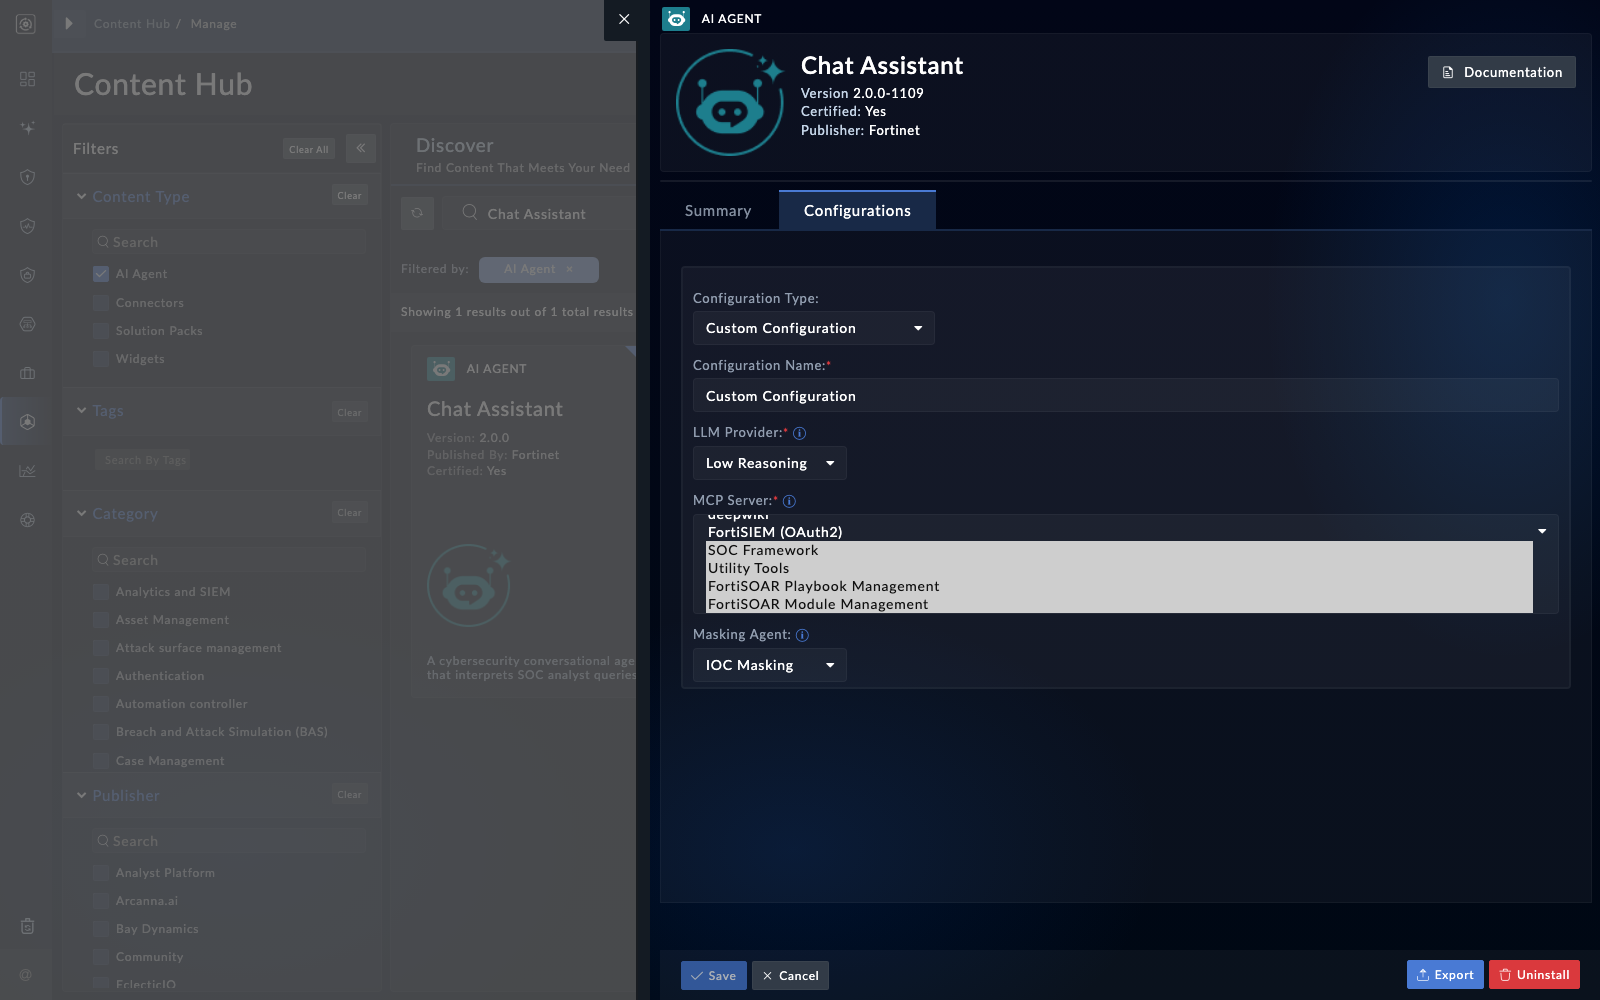
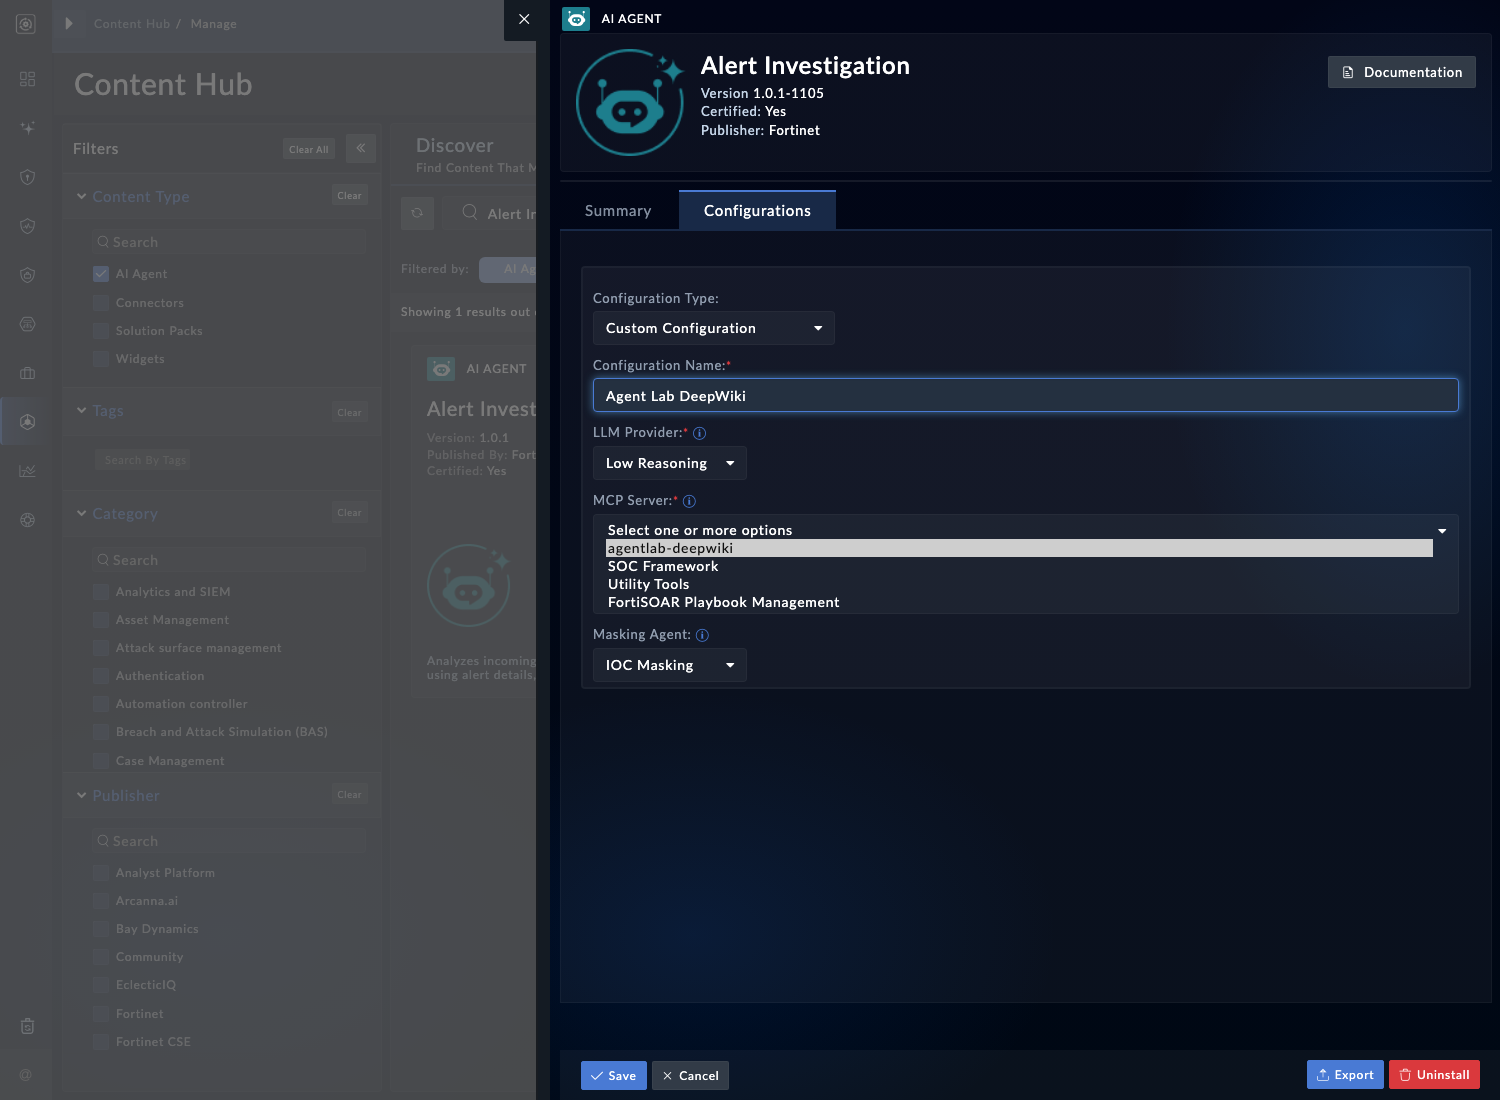
ch05: drive the agent config form by its real <select> controls
fsa05-04 grant step was unverified and clicked 'Custom Configuration' as text,
but it is a <select> option (hidden until the select opens). Select it and the
MCP Server, LLM Provider and Masking Agent through their #csForm-* selects, fill
the Configuration Name, and assert the lab server is offered before picking it.
Refresh the servers-page and grant-config captures.

diff --git a/docubot/05-register-mcp-servers/chapter.spec.ts b/docubot/05-register-mcp-servers/chapter.spec.ts
@@ -154,8 +154,9 @@ test('chapter 5 - register MCP servers', async ({ gui, capture }) => {
 
     if (shouldRunStep('fsa05-04-grant-allowlist')) await test.step('fsa05-04-grant-allowlist', async () => {
       // Content Hub > AI Agents > agent detail > Configurations. The server must
-      // already be registered (fsa05-01 or the mcp-server seed). Selectors for
-      // Custom Configuration and the MCP Server field are still UNVERIFIED live.
+      // already be registered (fsa05-01 or the mcp-server seed). The config form is
+      // a set of <select>s (Configuration Type, Name, LLM Provider, MCP Server,
+      // Masking Agent); "Custom Configuration" is an <option>, not clickable text.
       expect(
         (await mcpRows(soar)).some((r) => r.name === NAME),
         `no ${NAME} server to grant: run fsa05-01 or seed it with DOCUBOT_SEED=1`,
@@ -167,25 +168,33 @@ test('chapter 5 - register MCP servers', async ({ gui, capture }) => {
       await expect(tile, `agent "${AGENT}" is in the catalog`).toBeVisible({ timeout: 30_000 });
       await tile.click();
       await soar.getByText(/^Configurations$/i).last().click();
-      const custom = soar.getByText(/Custom Configuration/i).first();
-      await expect(custom).toBeVisible({ timeout: 20_000 });
-      await custom.click();
-      // MCP Server multi-select: open the field, pick the lab server by name.
-      const mcpField = soar.locator('label:has-text("MCP Server") ~ *, :text("MCP Server") + *').first();
-      await mcpField.click();
-      const option = soar.getByText(NAME, { exact: true }).last();
-      await expect(option, `${NAME} not offered in the MCP Server field: seed it with DOCUBOT_SEED=1`).toBeVisible({ timeout: 20_000 });
-      await option.click();
+      const configType = soar.locator('#csForm-config_type');
+      await configType.waitFor({ state: 'visible', timeout: 20_000 });
+      await configType.selectOption({ label: 'Custom Configuration' });
+      // Custom reveals the required fields. Fill them so the grant is valid and the
+      // capture shows a complete form.
+      const mcpSelect = soar.locator('#csForm-mcp_server');
+      await mcpSelect.waitFor({ state: 'visible', timeout: 20_000 });
+      await soar.locator('#csForm-name').fill('Agent Lab DeepWiki');
+      await soar.locator('#csForm-llm_provider').selectOption({ index: 1 }).catch(() => undefined);
+      await expect(
+        mcpSelect.locator('option', { hasText: NAME }),
+        `${NAME} not offered in the MCP Server field: register it (fsa05-01) or seed with DOCUBOT_SEED=1`,
+      ).toHaveCount(1, { timeout: 20_000 });
+      await mcpSelect.selectOption({ label: NAME });
+      await soar.locator('#csForm-masking_agent').selectOption({ index: 1 }).catch(() => undefined);
       await capture.shot(soar, 'fsa05-04-grant-allowlist-agent-config', { mask: uiMask(soar) });
       if (process.env.DOCUBOT_CH05_GRANT !== '1') {
         console.log('[ch05] fsa05-04 not saved: set DOCUBOT_CH05_GRANT=1 to save the grant on the agent');
         return;
       }
       await soar.getByRole('button', { name: /^Save$/ }).first().click();
-      // Effect: reopen the agent and confirm the selection stuck.
+      await soar.waitForTimeout(2_000);
+      // Effect: reopen the agent, switch to Custom, and confirm the server stuck.
       await soar.reload({ waitUntil: 'domcontentloaded' });
       await soar.getByText(/^Configurations$/i).last().click();
-      await expect(soar.getByText(NAME, { exact: true }).first()).toBeVisible({ timeout: 20_000 });
+      await soar.locator('#csForm-config_type').selectOption({ label: 'Custom Configuration' }).catch(() => undefined);
+      await expect(soar.locator('#csForm-mcp_server')).toHaveValue(/.+/, { timeout: 20_000 });
     });
 
     if (shouldRunStep('fsa05-05-agent-uses-remote')) await test.step('fsa05-05-agent-uses-remote', async () => {
